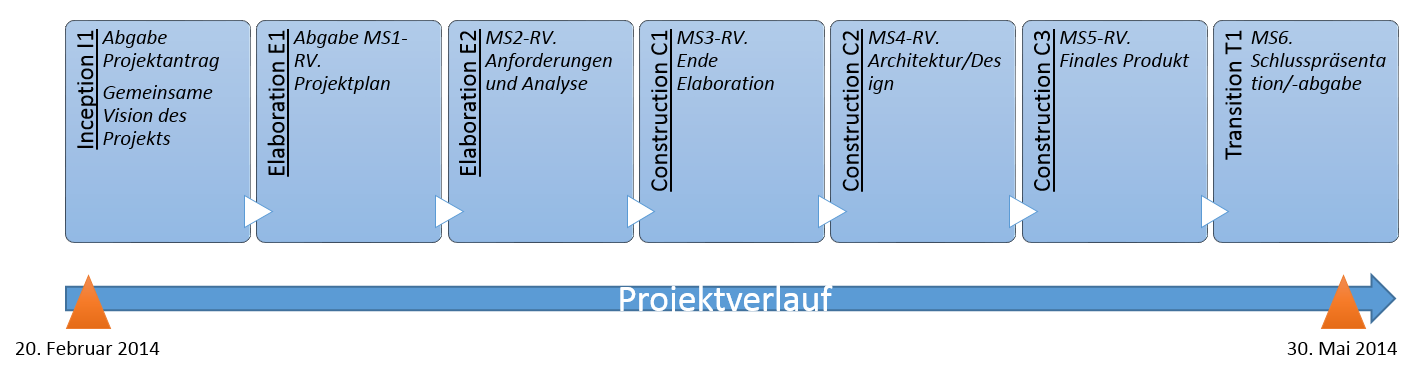
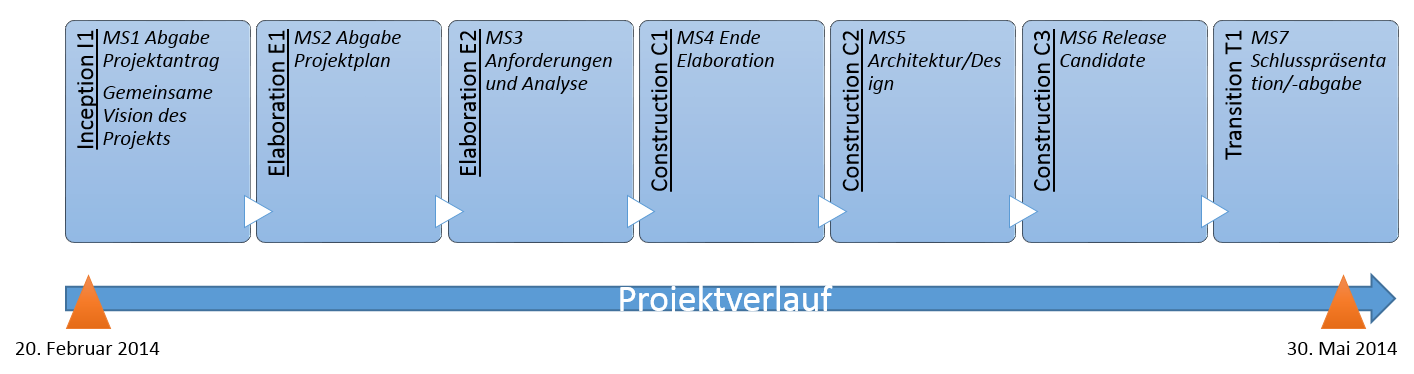
Change: Milestones reviewed

diff --git a/content/management_ablaeufe.tex b/content/management_ablaeufe.tex
@@ -164,31 +164,170 @@ Wir werden in unserem Projekt nach dem Unified Process arbeiten. Die beinhaltet 
 \end{table}
 
 \section{Meilensteine}
+
+\subsection{MS1 Abgabe Projektantrag}
 \begin{table}[H]
     \tablestyle
     \tablealtcolored
-    \begin{tabularx}{\textwidth}{l|l|X|X|r}
-    \tableheadcolor
-        \tablehead Start & \tablehead Ende & \tablehead Meilenstein & \tablehead Deliverables & \tablehead Phase
-        \tabularnewline
-    \tablebody
-        20.02.14 & 21.02.14 & Projektantrag & Projektantrag & I1 
-        \tabularnewline 
-         & 07.03.14 & Projektplan & Projektplan & E1 
-        \tabularnewline 
-         &  & Anforderungen und Analyse &  & E2 
-        \tabularnewline 
-         &  & Ende Elaboration &  & C1 
-        \tabularnewline 
-         &  & Architektur und Design &  & C2 
-        \tabularnewline 
-         &  &  &  & C3 
-        \tabularnewline 
-         &  & Schlusspräsentation & & T1 
-        \tabularnewline 
-    \tableend
+    \begin{tabularx}{\textwidth}{l X}
+        \tablebody
+        \tablehead Termin &
+            21.02.14 (SW1) \tabularnewline
+        \tablehead Phase &
+            I1 \tabularnewline
+        \tablehead Beschreibung  &
+            Einreichung des Projektantrags und Genehmigung
+            \tabularnewline
+        \tablehead Deliverables  &
+        	\begin{itemize}
+                \item Projektantrag
+            \end{itemize}
+            \tabularnewline
+        \tableend
     \end{tabularx}
-    \caption{Meilensteine}
+    \caption{MS1 Abgabe Projektantrag}
+\end{table}
+
+\subsection{MS2 Abgabe Projektplan}
+\begin{table}[H]
+    \tablestyle
+    \tablealtcolored
+    \begin{tabularx}{\textwidth}{l X}
+        \tablebody
+        \tablehead Termin &
+            06.03.14 (SW3) \tabularnewline
+        \tablehead Phase &
+            E1 \tabularnewline
+        \tablehead Beschreibung  &
+            Review Projektplan mit Zeitplan und aktuellen Iterationsplänen \tabularnewline
+        \tablehead Deliverables  &
+        	\begin{itemize}
+                \item Projektplan mit Arbeitspaketen
+            \end{itemize}
+            \tabularnewline
+        \tableend
+    \end{tabularx}
+    \caption{MS2 Abgabe Projektplan}
+\end{table}
+
+\subsection{MS3 Anforderungen und Analyse}
+\begin{table}[H]
+    \tablestyle
+    \tablealtcolored
+    \begin{tabularx}{\textwidth}{l X}
+        \tablebody
+        \tablehead Termin &
+            13.02.14 (SW4) \tabularnewline
+        \tablehead Phase &
+            E2
+            \tabularnewline
+        \tablehead Beschreibung  &
+            Review der Anforderungsspezifikation und Analyse \tabularnewline
+        \tablehead Deliverables  &
+        	\begin{itemize}
+                \item Anforderungsanalyse
+                \item Use-Case in Brief-Format
+                \item Domainmodel
+                \item Issues/Tasks in JIRA
+            \end{itemize}
+            \tabularnewline
+        \tableend
+    \end{tabularx}
+    \caption{MS3 Anforderungen und Analyse}
+\end{table}
+
+\subsection{MS4 Ende Elaboration}
+\begin{table}[H]
+    \tablestyle
+    \tablealtcolored
+    \begin{tabularx}{\textwidth}{l X}
+        \tablebody
+        \tablehead Termin &
+            27.03.14 (SW6) \tabularnewline
+        \tablehead Phase &
+            C1 \tabularnewline
+        \tablehead Beschreibung  &
+            Review der Anforderungsspezifikation und Analyse \tabularnewline
+        \tablehead Deliverables  &
+        	\begin{itemize}
+                \item Architektur-Prototyp
+            \end{itemize}
+            \tabularnewline
+        \tableend
+    \end{tabularx}
+    \caption{MS4 Ende Elaboration}
+\end{table}
+
+\subsection{MS5 Architektur/Design}
+\begin{table}[H]
+    \tablestyle
+    \tablealtcolored
+    \begin{tabularx}{\textwidth}{l X}
+        \tablebody
+        \tablehead Termin &
+            10.04.14 (SW8) \tabularnewline
+        \tablehead Phase &
+            C2 \tabularnewline
+        \tablehead Beschreibung  &
+            Review der Anforderungsspezifikation und Analyse \tabularnewline
+        \tablehead Deliverables  &
+        	\begin{itemize}
+                \item Dokument Architektur/Design
+                \item Testplan
+            \end{itemize}
+            \tabularnewline
+        \tableend
+    \end{tabularx}
+    \caption{MS5 Architektur/Design}
+\end{table}
+
+\subsection{MS6 Release Candiate}
+\begin{table}[H]
+    \tablestyle
+    \tablealtcolored
+    \begin{tabularx}{\textwidth}{l X}
+        \tablebody
+        \tablehead Termin &
+            01.05.14 (SW11) \tabularnewline
+        \tablehead Phase &
+            C3
+            \tabularnewline
+        \tablehead Beschreibung  &
+            Review der Anforderungsspezifikation und Analyse \tabularnewline
+        \tablehead Deliverables  &
+        	\begin{itemize}
+                \item Code RC Version
+                \item Protokoll Code-Reviews
+            \end{itemize}
+            \tabularnewline
+        \tableend
+    \end{tabularx}
+    \caption{MS6 Release Candiate}
+\end{table}
+
+\subsection{MS7 Schlusspräsentation/-abgabe}
+\begin{table}[H]
+    \tablestyle
+    \tablealtcolored
+    \begin{tabularx}{\textwidth}{l X}
+        \tablebody
+        \tablehead Termin &
+            28.05.2013 (SW14) \tabularnewline
+        \tablehead Phase &
+            T1
+            \tabularnewline
+        \tablehead Beschreibung  &
+            Review der Anforderungsspezifikation und Analyse \tabularnewline
+        \tablehead Deliverables  &
+        	\begin{itemize}
+                \item Finales Produkt
+                \item Präsentation
+                \item Abgabe der Resultate
+            \end{itemize}
+            \tabularnewline
+        \tableend
+    \end{tabularx}
+    \caption{MS7 Schlusspräsentation/-abgabe}
 \end{table}
 
 \section{Besprechungen}
